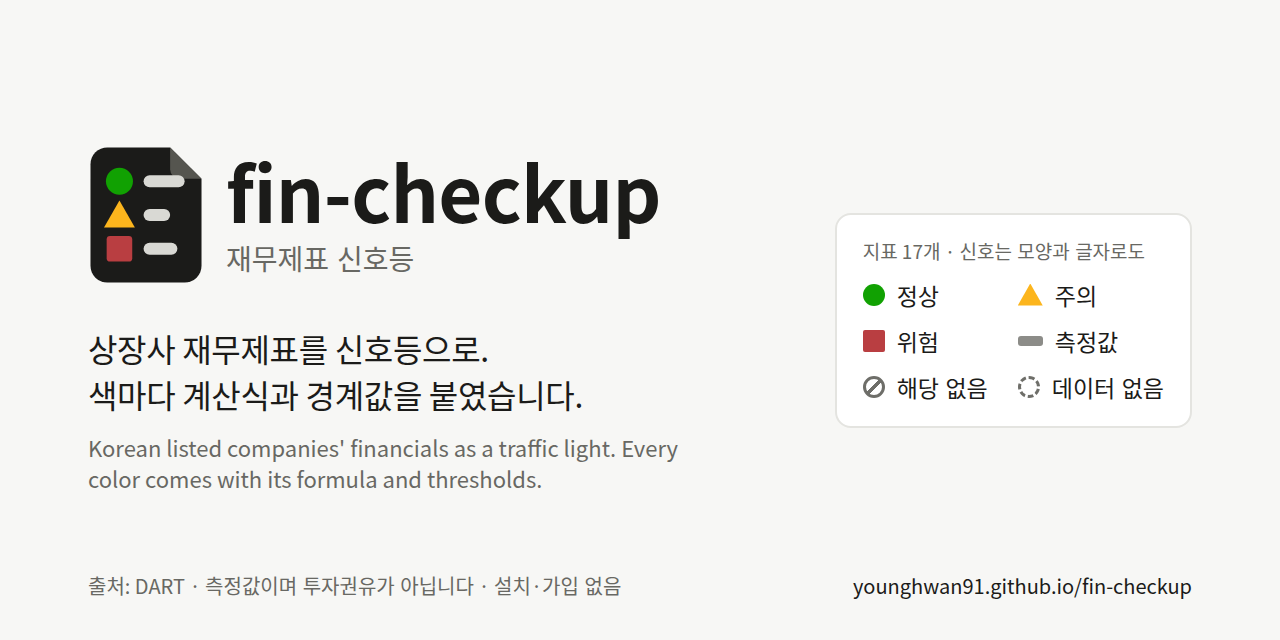
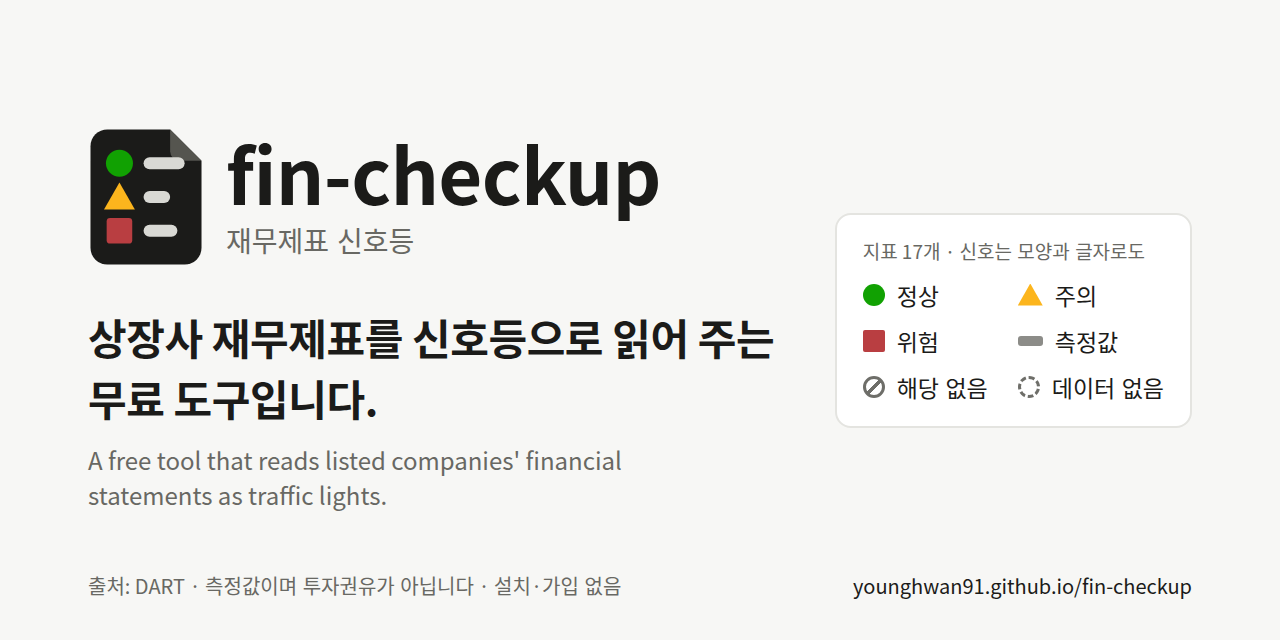
docs(brand): quote the README pitch on the social preview
The social preview carried its own headline, which differed from the README's one-line pitch, so shared cards and the README said different things. brand_images.py now reads the bold pitch under the README title (ko and en) and the headline is larger to stay readable at 600 px; a test pins the card to the README and the PNG to 1280x640 under 1 MB. Banners are unchanged.

Changed region(s): [[0.0625, 0.1875, 0.5312, 0.4688], [0.0625, 0.5, 0.625, 0.6562], [0.0625, 0.6875, 0.5312, 0.8125]]

diff --git a/scripts/brand_images.py b/scripts/brand_images.py
@@ -14,11 +14,13 @@
 from __future__ import annotations
 
 import argparse
+import re
 from pathlib import Path
 
 from fin_checkup import brand
 
-OUT = Path(__file__).resolve().parents[1] / "docs" / "images"
+ROOT = Path(__file__).resolve().parents[1]
+OUT = ROOT / "docs" / "images"
 SITE = "younghwan91.github.io/fin-checkup"
 
 TEXT = {
@@ -129,20 +131,30 @@ def banner_html(lang: str, theme: str) -> str:
 <p class="foot">{t["foot"]}</p></div></body></html>"""
 
 
+def readme_pitch(readme: str) -> str:
+    """README 제목(# fin-checkup) 아래 첫 굵은 줄 — 소셜 미리보기는 이 한 줄 소개를 그대로 싣는다."""
+    m = re.search(r"^# fin-checkup\s*$.*?^\*\*(.+?)\*\*\s*$", readme, re.M | re.S)
+    if not m:
+        raise SystemExit("README 제목 아래 굵은 한 줄 소개를 못 찾았다")
+    return m.group(1)
+
+
 def social_html() -> str:
-    t, en, c = TEXT["ko"], TEXT["en"], COLORS["light"]
+    t, c = TEXT["ko"], COLORS["light"]
+    ko = readme_pitch((ROOT / "README.md").read_text("utf-8"))
+    en = readme_pitch((ROOT / "README.en.md").read_text("utf-8"))
     return f"""<!doctype html><html><head><meta charset="utf-8"><style>{_css(c)}
 .frame {{ width: 1280px; height: 640px; padding: 0 88px; }}
 .row {{ display: flex; align-items: center; justify-content: space-between; gap: 56px; }}
 .name {{ font-size: 76px; }} .tag {{ font-size: 28px; }}
-.headline {{ font-size: 32px; margin-top: 40px; }}
-.en {{ color: {c["muted"]}; font-size: 22px; margin-top: 14px; line-height: 1.45; max-width: 620px; }}
+.headline {{ font-size: 42px; font-weight: 700; margin-top: 40px; }}
+.en {{ color: {c["muted"]}; font-size: 24px; margin-top: 14px; line-height: 1.45; max-width: 620px; }}
 .foot {{ position: absolute; left: 88px; right: 88px; bottom: 40px; display: flex; justify-content: space-between; }}
 .url {{ color: {c["ink"]}; font-weight: 500; }}
 </style></head><body><div class="frame"><div class="row"><div>
 <div class="brand">{_mark("light", 140)}<div><div class="name">fin-checkup</div><div class="tag">{t["tagline"]}</div></div></div>
-<p class="headline">{t["headline"]}</p>
-<p class="en">{en["headline"].replace("<br>", " ")}</p></div>{_legend(t)}</div>
+<p class="headline">{ko}</p>
+<p class="en">{en}</p></div>{_legend(t)}</div>
 <p class="foot"><span>{t["foot"]}</span><span class="url">{SITE}</span></p></div></body></html>"""
 
 

diff --git a/tests/test_brand.py b/tests/test_brand.py
@@ -133,3 +133,20 @@ def test_site_css_logo_colors_are_the_brand_palette():
     light, dark = css_themes()
     for theme, pal in ((light, brand.LIGHT), (dark, brand.DARK)):
         assert (theme["logo-sheet"], theme["logo-fold"], theme["logo-bar"]) == (pal.sheet, pal.fold, pal.bar)
+
+
+def test_social_preview_quotes_the_readme_pitch_and_fits_github():
+    """소셜 미리보기의 한 줄 소개는 README 첫 줄 그대로 — 따로 지어 쓰면 README·레포 설명과 갈린다."""
+    import importlib.util
+    import struct
+
+    root = Path(__file__).resolve().parents[1]
+    spec = importlib.util.spec_from_file_location("brand_images", root / "scripts" / "brand_images.py")
+    mod = importlib.util.module_from_spec(spec)
+    spec.loader.exec_module(mod)
+    html = mod.social_html()
+    for name in ("README.md", "README.en.md"):
+        assert mod.readme_pitch((root / name).read_text("utf-8")) in html
+    png = root / "docs" / "images" / "social-preview.png"
+    assert struct.unpack(">II", png.read_bytes()[16:24]) == (1280, 640)
+    assert png.stat().st_size < 1_000_000
